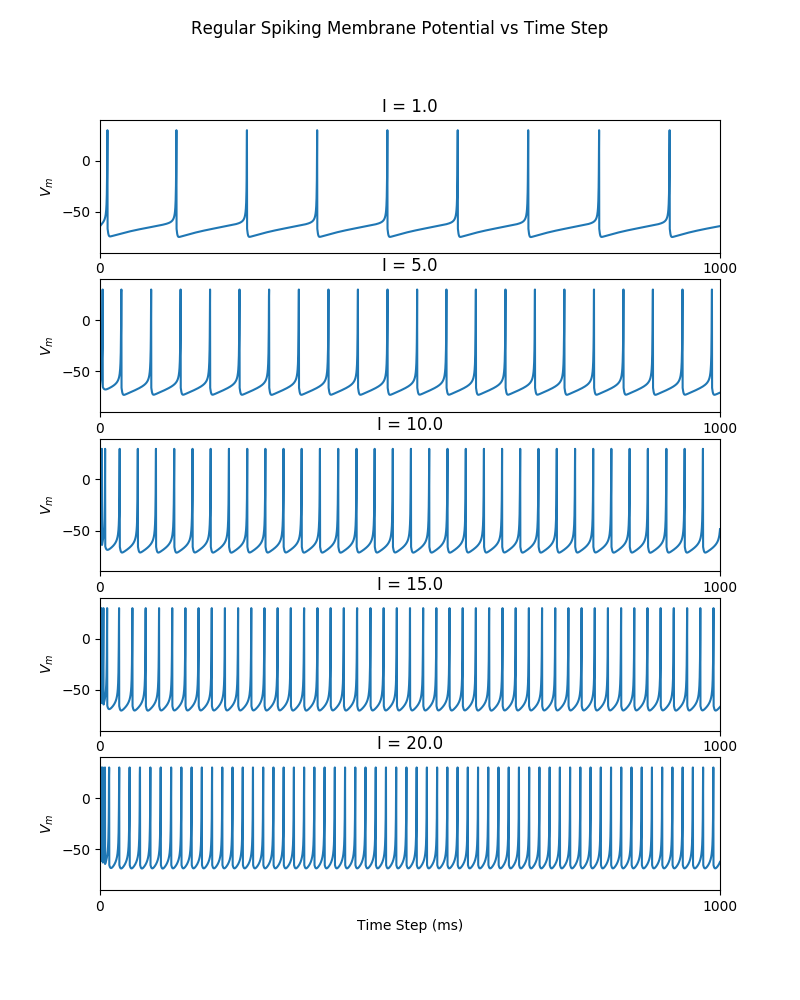
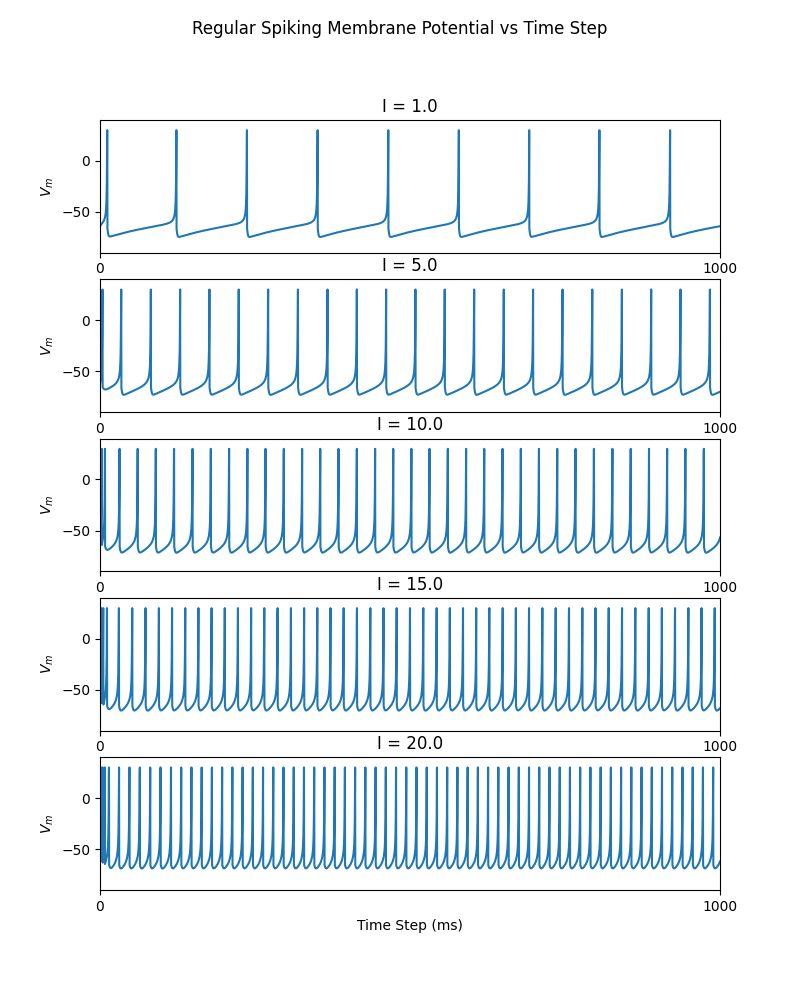
Fixed off by 1 for turning on input

diff --git a/hw1/code/spiking_neuron.py b/hw1/code/spiking_neuron.py
@@ -50,7 +50,7 @@ if __name__ == '__main__':
     SIM_TIME = 1000 # Simulation time in milliseconds
     TAU = 0.25 # Simulation time step in milliseconds
     SIM_STEPS = int(SIM_TIME / TAU) + 1 # simulation steps
-    INPUT_START_TIME = 0 # Time to start input signal
+    INPUT_START_TIME = -1 # Time to start input signal
     SPIKE_THRESH = 30.0 # Threshold to determine spikes
 
     # Simulation
